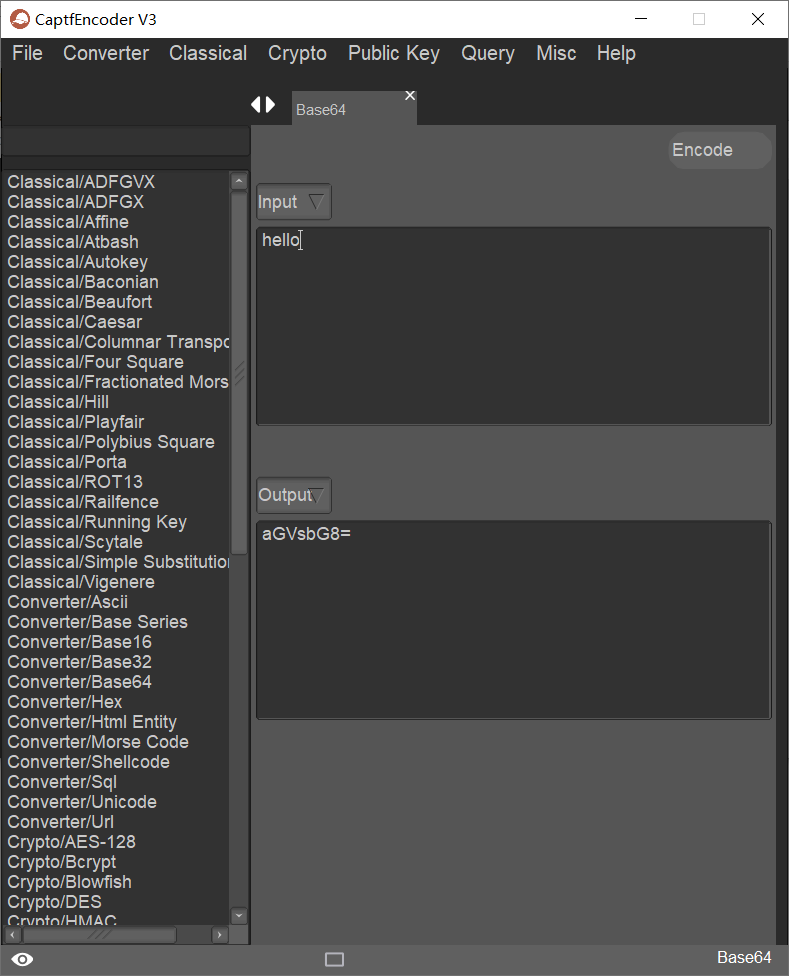
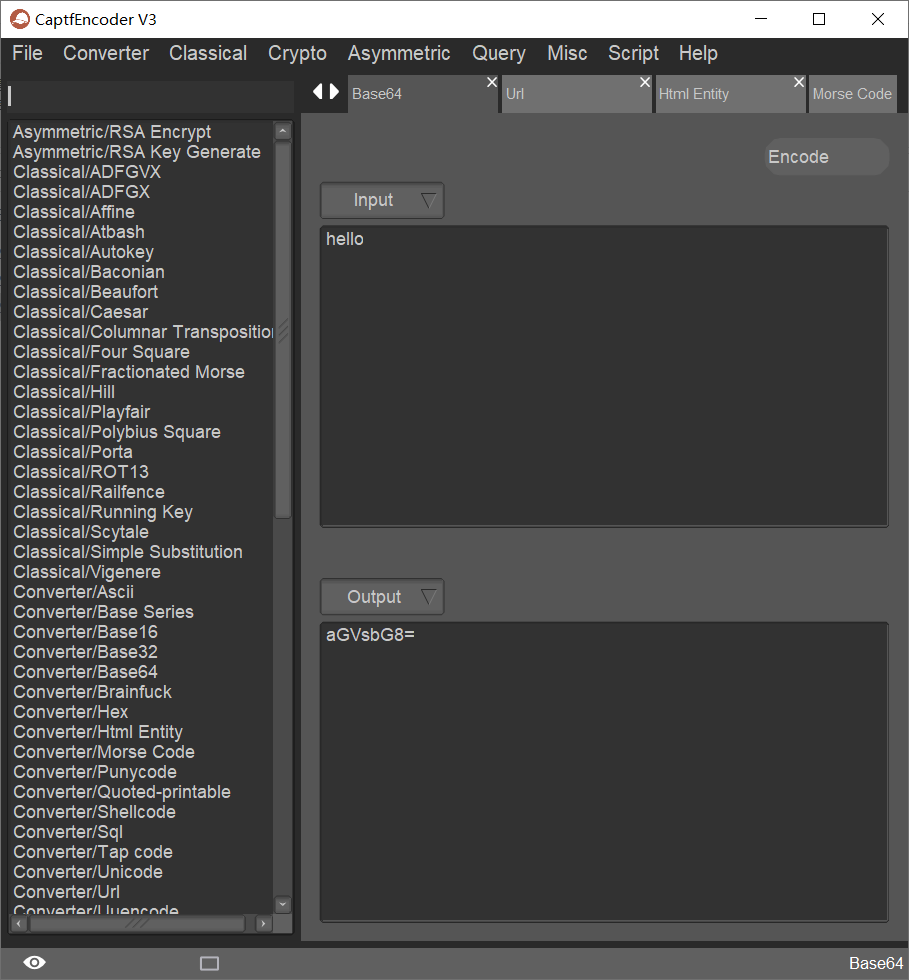
update

diff --git a/README-zh.md b/README-zh.md
@@ -16,10 +16,14 @@
 
 CaptfEncoder 是一款跨平台网络安全工具套件，提供网络安全相关编码转换、古典密码、密码学、公钥加密、聚合查询、杂项等多种实用工具。
 
-CaptfEncoder V3 版本使用Rust开发，可执行程序体积小（Windows 6M左右，其他操作系统10M左右），速度更快、性能更优、功能更强。 
+CaptfEncoder V3 版本使用Rust开发，可执行程序体积小，速度更快、性能更优、功能更强。 
 
 
 ![CaptfEncoder screenshot](https://github.com/guyoung/CaptfEncoder/raw/master/images/captfencoder-v3-screenshot-1.png)
+
+CaptfEncoder V3 版本支持脚本扩展。
+
+![CaptfEncoder screenshot](https://github.com/guyoung/CaptfEncoder/raw/master/images/captfencoder-v3-scripts-creenshot-1.png)
 
 ## 支持操作系统
 
@@ -59,12 +63,18 @@ Centos 7 运行截图
    * Base64 编码
    * Base16 编码
    * Base32 编码
-   * Base系列编码(Base58,Base62,Base62,Base85,Base91)
+   * Base系列编码(Base58,Base62,Base62,Base85,Base91,Base92)
    * Url 编码  
    * Html entity 编码
    * Shellcode 编码 
    * Unicode 编码   
-   * 莫尔斯电码 
+   * 莫尔斯电码
+   * Punycode 编码
+   * Quoted-printable 编码
+   * Tap code 编码
+   * Uuencode 编码
+   * Brainfuck 编码
+
 
  * 古典密码
    * ADFGX 密码

diff --git a/README.md b/README.md
@@ -18,7 +18,11 @@ Captfencoder is a rapid cross platform network security tool suite, providing ne
 
 ![CaptfEncoder Screenshot](https://github.com/guyoung/CaptfEncoder/raw/master/images/captfencoder-v3-screenshot-1.png)
 
-CaptfEncoder V3 develop by Rust, executable file that are smaller (Windows around 6M,Other operating systems around 10M), faster, better performance, and more comprehensive.  
+CaptfEncoder V3 develop by Rust, Executable programs are smaller, faster, better performing, and more powerful.  
+
+CaptfEncoder V3  suport script extension.
+
+![CaptfEncoder screenshot](https://github.com/guyoung/CaptfEncoder/raw/master/images/captfencoder-v3-scripts-creenshot-1.png)
 
 ## Support operating system
 
@@ -53,12 +57,18 @@ Centos 7 screenshot
    * Base64 encoding
    * Base16 encoding
    * Base32 encoding
-   * Base series(Base58,Base62,Base62,Base85,Base91)
+   * Base series(Base58,Base62,Base62,Base85,Base91,Base92)
    * Url encoding 
    * Html entity encoding
    * Shellcode encoding
    * Unicode encoding 
    * Morse code
+   * Punycode encoding
+   * Quoted-printable encoding
+   * Tap code encoding
+   * Uuencode encoding
+   * Brainfuck encoding
+
 
 
  * Classical cipher
